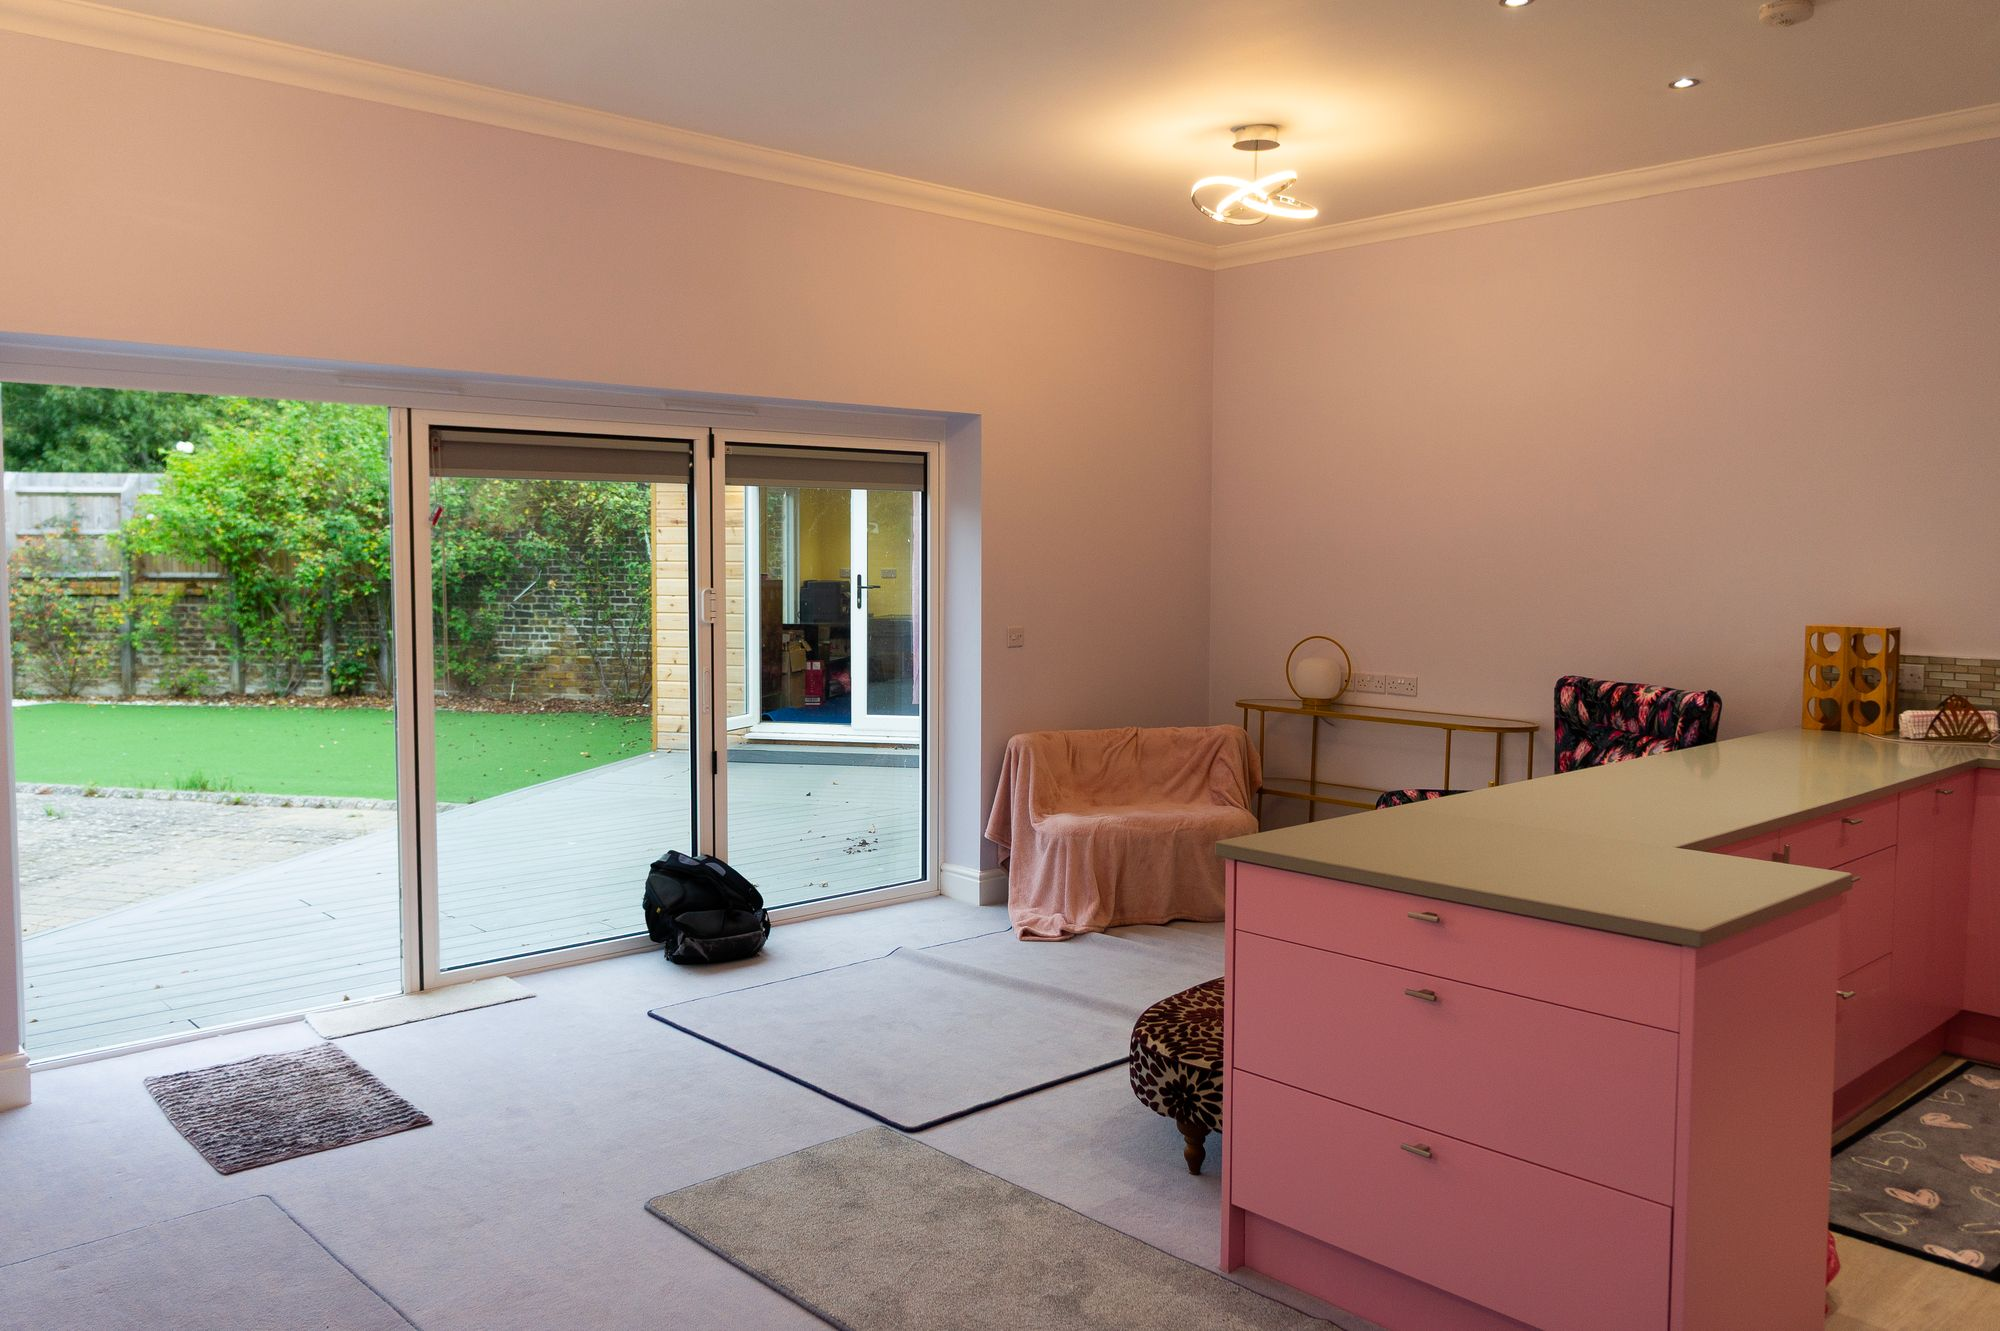
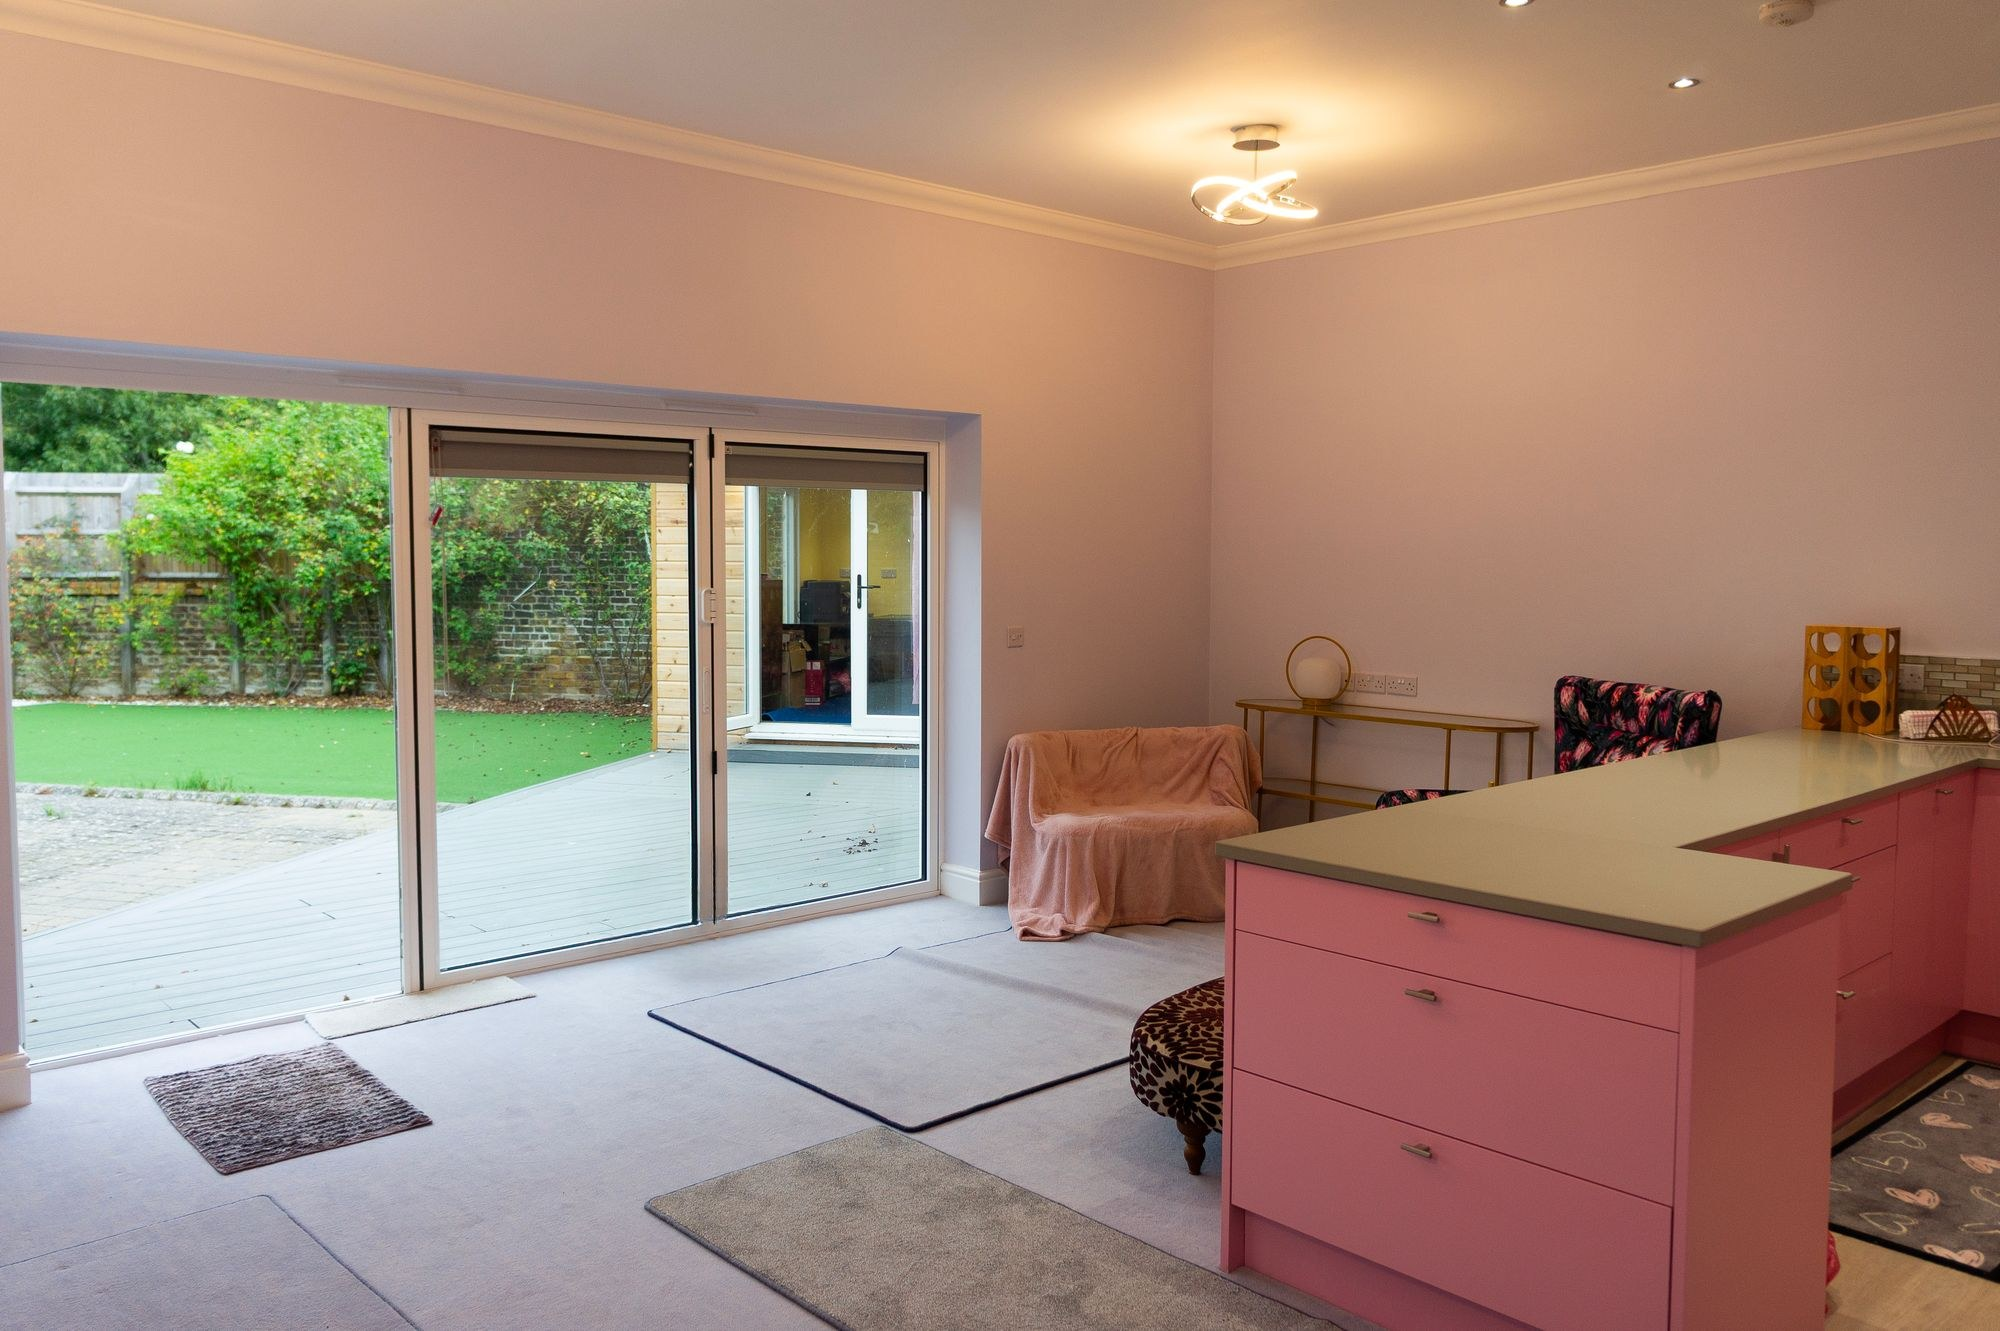
1 Magazine Mews: laundry room, garden shots cropped to the buildings, rucksack removed
- Captions and alt text: "Garage studio" is now "Laundry room".
- 21 and 22 cropped to the buildings (the lawn is out); captions follow.
- 02 living room: the rucksack by the folding doors is edited out.

Claude-Session: https://claude.ai/code/session_01B8GAB7MBQBbgSW8Co3RPre

Changed region(s): [[0.31, 0.6469, 0.403, 0.7393]]

diff --git a/magazine-mews/content.js b/magazine-mews/content.js
@@ -181,13 +181,13 @@ window.HOUSE = {
     { src: "photos/13-garden-lawn.jpg",          alt: "Garden lawn with planted borders and brick walls", caption: "Garden" },
     { src: "photos/14-garden-studio-doors.jpg",  alt: "Garden studio with its doors open onto the decking", caption: "Garden studio" },
     { src: "photos/15-garden-studio-inside.jpg", alt: "Inside the garden studio, with a door out to the garden", caption: "Garden studio" },
-    { src: "photos/16-garage-studio.jpg",        alt: "Garage studio with French doors and a climbing creeper", caption: "Garage studio" },
-    { src: "photos/17-garage-studio-shower.jpg", alt: "Shower room in the garage studio, with palm-print walls", caption: "Garage studio shower room" },
+    { src: "photos/16-garage-studio.jpg",        alt: "Laundry room with French doors and a climbing creeper", caption: "Laundry room" },
+    { src: "photos/17-garage-studio-shower.jpg", alt: "Shower in the laundry room, with palm-print walls", caption: "Laundry room shower" },
     { src: "photos/18-en-suite.jpg",             alt: "En suite with a walk-in shower and gold fittings", caption: "En suite" },
     { src: "photos/19-en-suite-shower.jpg",      alt: "Walk-in shower with a gold rainfall shower head", caption: "En suite" },
     { src: "photos/20-bedroom-mural.jpg",        alt: "The bird and flower mural in the bedroom", caption: "Bedroom" },
-    { src: "photos/21-back-garden-seating.jpg",  alt: "Seating area in the back garden", caption: "Back garden" },
-    { src: "photos/22-back-garden.jpg",          alt: "Back garden with a greenhouse and a garden shed", caption: "Back garden" },
+    { src: "photos/21-back-garden-seating.jpg",  alt: "Brick gable end with a door, and a seating area outside it", caption: "Seating area" },
+    { src: "photos/22-back-garden.jpg",          alt: "Greenhouse and garden shed", caption: "Greenhouse and shed" },
   ],
 
   // Walkthrough video: upload to YouTube as "Unlisted" (or to Vimeo) and

diff --git a/NEXT.md b/NEXT.md
@@ -1,6 +1,14 @@
 # NEXT — 1 Magazine Mews (magazine-mews/ on this branch)
 
 ## Waiting on Mark
+- **Kitchen photo** (since 11 Oct 2026): keep it as it is, use the
+  generated zoomed-out version (preview sent in chat), or take a new shot
+  from further back.
+- **Instagram account** (since 11 Oct 2026): create @1magazinemews on the
+  phone or Mac. Then the next session fills in the profile and stages the
+  posts.
+- **Facebook posts** (since 11 Oct 2026): the next 8 posts are ready.
+  Each one is staged and then Mark presses Post.
 - **Where viewing enquiries should go** (since 10 Oct 2026). The form on the
   site says "opens very soon" until `enquiries` in `magazine-mews/content.js`
   has a Formspree form ID or an email address.
@@ -8,18 +16,21 @@
   bedrooms, bathrooms, parking, garden, tenure, council tax band, EPC rating,
   any estate charge, heating, broadband, chain. They're the empty rows in the
   "1 Magazine Mews: shoot & content brief" doc. Each one appears on the site
-  as soon as it's filled in.
+  as soon as it's filled in. The EPC rating is also needed before any ads run.
 - A description (3–4 short paragraphs) and 4–6 highlights, if wanted.
 
 ## Waiting on someone else
 - Walkthrough video link and floorplan, if they're coming from the shoot.
 
 ## Next up
-1. Wire up enquiries once Mark picks where they go.
-2. Fill in the facts and words as they arrive.
-3. Instagram account and geo-targeted ads pointing at the site, once the
-   site is complete (Mark, 10 Oct 2026).
+1. Swap in the kitchen photo Mark picks.
+2. Instagram profile and posts, once the account exists.
+3. Ads in the Housing category from the existing ad account, plus the Meta
+   pixel on the site.
+4. Wire up enquiries once Mark picks where they go.
+5. Fill in the facts and words as they arrive.
 
 ## Updated
-10 Oct 2026 — the plum-and-rose restyle (Mum's favourite look from the
-September prototype).
+11 Oct 2026 — "garage studio" renamed to "laundry room", the two garden
+shots cropped to the buildings, the rucksack taken out of the living-room
+photo, and the social kit updated to match.
